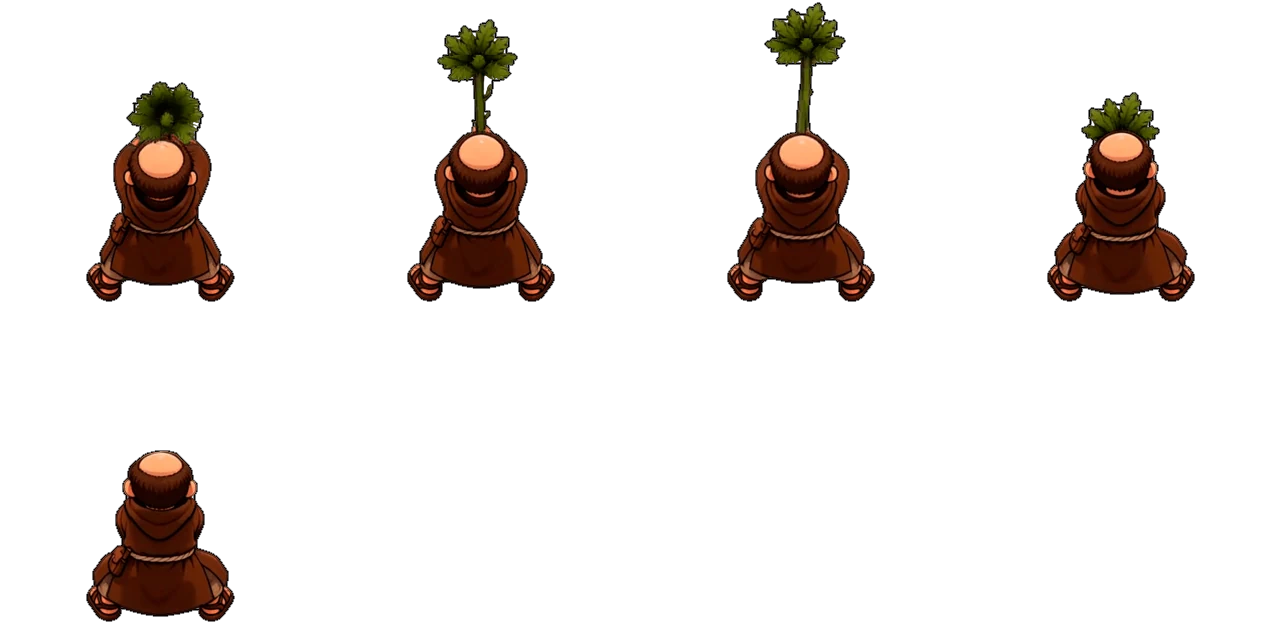
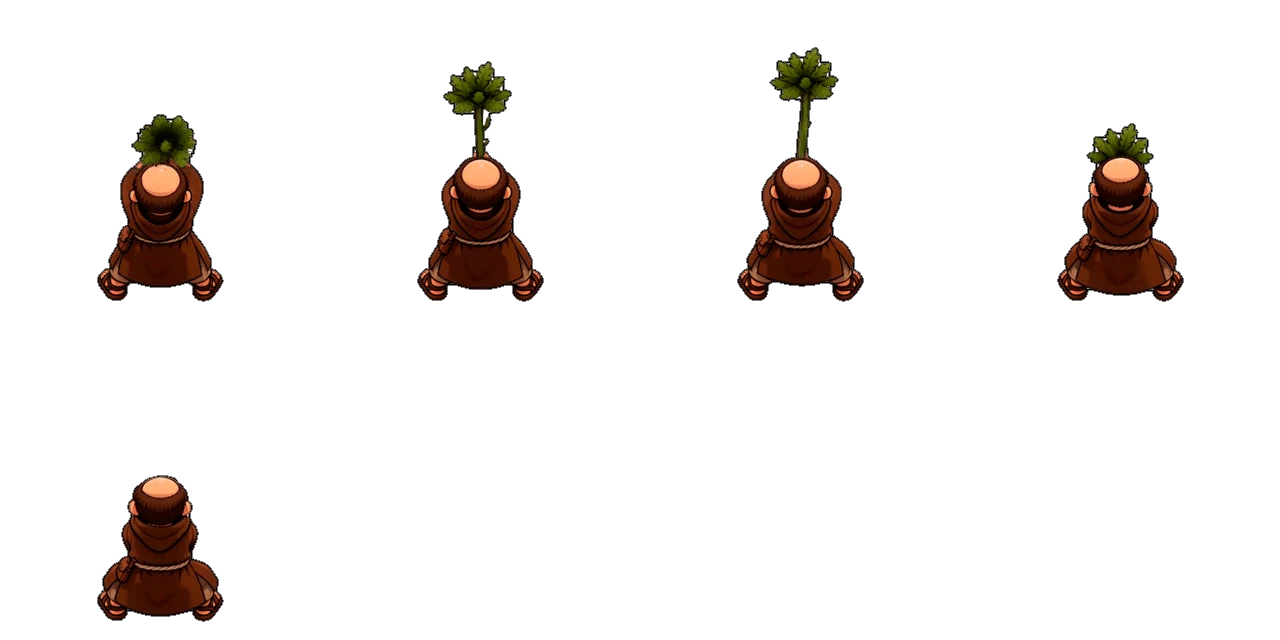
Atac amunt amb la branca: personatge un 15% més petit (v5 el dibuixa més ample); puja la versió
Claude-Session: https://claude.ai/code/session_01Lxfm6YSSDLi4GYSBQ6SeDm

diff --git a/index.html b/index.html
@@ -61,62 +61,62 @@
     <div id="joc"></div>
 
     <!-- L'ordre importa: cada fitxer fa servir coses dels anteriors -->
-    <script src="js/sfx.js?v=2611174400"></script>
-    <script src="js/partida.js?v=2611174400"></script>
-    <script src="js/progres.js?v=2611174400"></script>
-    <script src="js/dibuixos.js?v=2611174400"></script>
-    <script src="js/icones.js?v=2611174400"></script>
-    <script src="js/dibuixos_biblio.js?v=2611174400"></script>
-    <script src="js/dibuixos_cela.js?v=2611174400"></script>
-    <script src="js/dibuixos_taller.js?v=2611174400"></script>
+    <script src="js/sfx.js?v=2611174500"></script>
+    <script src="js/partida.js?v=2611174500"></script>
+    <script src="js/progres.js?v=2611174500"></script>
+    <script src="js/dibuixos.js?v=2611174500"></script>
+    <script src="js/icones.js?v=2611174500"></script>
+    <script src="js/dibuixos_biblio.js?v=2611174500"></script>
+    <script src="js/dibuixos_cela.js?v=2611174500"></script>
+    <script src="js/dibuixos_taller.js?v=2611174500"></script>
     <script src="js/dibuixos_cripta.js?v=2611161400"></script>
-    <script src="js/dibuixos_georgi.js?v=2611174400"></script>
-    <script src="js/dibuixos_oratori.js?v=2611174400"></script>
-    <script src="js/dibuixos_ermita.js?v=2611174400"></script>
-    <script src="js/dibuixos_casa.js?v=2611174400"></script>
-    <script src="js/dibuixos_proleg.js?v=2611174400"></script>
-    <script src="js/dibuixos_pingpong.js?v=2611174400"></script>
-    <script src="js/assets.js?v=2611174400"></script>
-    <script src="js/dialegs.js?v=2611174400"></script>
-    <script src="js/ui.js?v=2611174400"></script>
-    <script src="js/zona_base.js?v=2611174400"></script>
-    <script src="js/atac_arma.js?v=2611174400"></script>
-    <script src="js/combat.js?v=2611174400"></script>
-    <script src="js/musica.js?v=2611174400"></script>
-    <script src="js/zones/placa.js?v=2611174400"></script>
-    <script src="js/zones/esglesia.js?v=2611174400"></script>
-    <script src="js/zones/monestir.js?v=2611174400"></script>
-    <script src="js/zones/bassadoria.js?v=2611174400"></script>
-    <script src="js/zones/casa_gran.js?v=2611174400"></script>
-    <script src="js/zones/nord.js?v=2611174400"></script>
-    <script src="js/zones/cirosa.js?v=2611174400"></script>
-    <script src="js/estels.js?v=2611174400"></script>
-    <script src="js/pingpong.js?v=2611174400"></script>
-    <script src="js/credits.js?v=2611174400"></script>
-    <script src="js/zones/oest.js?v=2611174400"></script>
-    <script src="js/zones/bosc_pi.js?v=2611174400"></script>
-    <script src="js/zones/cementiri.js?v=2611174400"></script>
-    <script src="js/zones/casa.js?v=2611174400"></script>
-    <script src="js/zones/cabana.js?v=2611174400"></script>
-    <script src="js/zones/cami.js?v=2611174400"></script>
-    <script src="js/zones/ermita.js?v=2611174400"></script>
-    <script src="js/zones/era.js?v=2611174400"></script>
-    <script src="js/zones/jardi.js?v=2611174400"></script>
-    <script src="js/zones/torre.js?v=2611174400"></script>
-    <script src="js/zones/hostatgeria.js?v=2611174400"></script>
-    <script src="js/zones/taverna.js?v=2611174400"></script>
-    <script src="js/zones/gabia.js?v=2611174400"></script>
-    <script src="js/zones/gabia_decor.js?v=2611174400"></script>
-    <script src="js/zones/biblioteca.js?v=2611174400"></script>
-    <script src="js/zones/rebedor.js?v=2611174400"></script>
-    <script src="js/zones/cela.js?v=2611174400"></script>
-    <script src="js/diari.js?v=2611174400"></script>
-    <script src="js/mapa.js?v=2611174400"></script>
-    <script src="js/proves_llistes.js?v=2611174400"></script>
-    <script src="js/proves_escenaris.js?v=2611174400"></script>
-    <script src="js/proves.js?v=2611174400"></script>
-    <script src="js/intro.js?v=2611174400"></script>
-    <script src="js/main.js?v=2611174400"></script>
+    <script src="js/dibuixos_georgi.js?v=2611174500"></script>
+    <script src="js/dibuixos_oratori.js?v=2611174500"></script>
+    <script src="js/dibuixos_ermita.js?v=2611174500"></script>
+    <script src="js/dibuixos_casa.js?v=2611174500"></script>
+    <script src="js/dibuixos_proleg.js?v=2611174500"></script>
+    <script src="js/dibuixos_pingpong.js?v=2611174500"></script>
+    <script src="js/assets.js?v=2611174500"></script>
+    <script src="js/dialegs.js?v=2611174500"></script>
+    <script src="js/ui.js?v=2611174500"></script>
+    <script src="js/zona_base.js?v=2611174500"></script>
+    <script src="js/atac_arma.js?v=2611174500"></script>
+    <script src="js/combat.js?v=2611174500"></script>
+    <script src="js/musica.js?v=2611174500"></script>
+    <script src="js/zones/placa.js?v=2611174500"></script>
+    <script src="js/zones/esglesia.js?v=2611174500"></script>
+    <script src="js/zones/monestir.js?v=2611174500"></script>
+    <script src="js/zones/bassadoria.js?v=2611174500"></script>
+    <script src="js/zones/casa_gran.js?v=2611174500"></script>
+    <script src="js/zones/nord.js?v=2611174500"></script>
+    <script src="js/zones/cirosa.js?v=2611174500"></script>
+    <script src="js/estels.js?v=2611174500"></script>
+    <script src="js/pingpong.js?v=2611174500"></script>
+    <script src="js/credits.js?v=2611174500"></script>
+    <script src="js/zones/oest.js?v=2611174500"></script>
+    <script src="js/zones/bosc_pi.js?v=2611174500"></script>
+    <script src="js/zones/cementiri.js?v=2611174500"></script>
+    <script src="js/zones/casa.js?v=2611174500"></script>
+    <script src="js/zones/cabana.js?v=2611174500"></script>
+    <script src="js/zones/cami.js?v=2611174500"></script>
+    <script src="js/zones/ermita.js?v=2611174500"></script>
+    <script src="js/zones/era.js?v=2611174500"></script>
+    <script src="js/zones/jardi.js?v=2611174500"></script>
+    <script src="js/zones/torre.js?v=2611174500"></script>
+    <script src="js/zones/hostatgeria.js?v=2611174500"></script>
+    <script src="js/zones/taverna.js?v=2611174500"></script>
+    <script src="js/zones/gabia.js?v=2611174500"></script>
+    <script src="js/zones/gabia_decor.js?v=2611174500"></script>
+    <script src="js/zones/biblioteca.js?v=2611174500"></script>
+    <script src="js/zones/rebedor.js?v=2611174500"></script>
+    <script src="js/zones/cela.js?v=2611174500"></script>
+    <script src="js/diari.js?v=2611174500"></script>
+    <script src="js/mapa.js?v=2611174500"></script>
+    <script src="js/proves_llistes.js?v=2611174500"></script>
+    <script src="js/proves_escenaris.js?v=2611174500"></script>
+    <script src="js/proves.js?v=2611174500"></script>
+    <script src="js/intro.js?v=2611174500"></script>
+    <script src="js/main.js?v=2611174500"></script>
     <script>
         // Service worker: només amb http(s) (no obrint el fitxer directament) i sense fer fallar el joc si no pot ser
         window.addEventListener('load', () => { try { if (typeof game !== 'undefined') sessionStorage.removeItem('runna_reintent'); } catch (e) { } });

diff --git a/js/assets.js b/js/assets.js
@@ -354,7 +354,7 @@ const Grafics = {
             const mida = { frameWidth: SPRITE_INEU.ample, frameHeight: SPRITE_INEU.alt };
             scene.load.spritesheet('ineu_' + dir, rutaIneu(dir, false), mida);
             scene.load.spritesheet('ineu_cop_' + dir, `assets/ineu/cop/cop_${dir}.webp?v=1`, mida);          // l'Ineu rebent un cop (AutoSprite «Hit React», eines/fer_cop_ineu.py)
-            ATAC_ARMES.forEach(arma => scene.load.spritesheet(`ineu_atac_${arma}_${dir}`, `assets/ineu/atac/atac_${arma}_${dir}.webp?v=2611174400`, { frameWidth: ATAC_CEL_EXC[`${arma}_${dir}`] || ATAC_CEL, frameHeight: ATAC_CEL_EXC[`${arma}_${dir}`] || ATAC_CEL }));
+            ATAC_ARMES.forEach(arma => scene.load.spritesheet(`ineu_atac_${arma}_${dir}`, `assets/ineu/atac/atac_${arma}_${dir}.webp?v=2611174500`, { frameWidth: ATAC_CEL_EXC[`${arma}_${dir}`] || ATAC_CEL, frameHeight: ATAC_CEL_EXC[`${arma}_${dir}`] || ATAC_CEL }));
         });
         [...new Set(Object.values(IDLE_INEU))].forEach(dir => {
             const mida = { frameWidth: SPRITE_INEU.ample, frameHeight: SPRITE_INEU.alt };

diff --git a/eines/fer_atac_arma.py b/eines/fer_atac_arma.py
@@ -32,6 +32,8 @@ FOT_EXC = {('tiller', 'up'): [0, 1, 2, 3, 4], ('espasa', 'up'): [0, 1, 2, 1, 0],
 # La branca 'up' fa servir ara el full de proves v5 (tiller_up_v5, 5 fotogrames dibuixats, tots triats a mà amb proves/atac_up/; l'alçada del cos es mesura amb el 5).
 # Fotogrames amb què es mesura l'alçada del cos (per defecte 12-15, on l'arma és a les mans). A basto_v1 'up' la gafa del bastó sobresurt per sobre del cap en aquests: es mesura amb el 3 i el 4.
 ESCALA_FOTS = {('basto', 'up'): (3, 4), ('tiller', 'up'): (4,)}
+# Reducció extra de la mida (per a fulls on el personatge surt dibuixat més ample que als altres; tiller_up_v5, a 0,85, igualava l'amplada del cos amb la dels altres atacs)
+REDUCCIO = {('tiller', 'up'): 0.85}
 CENTRAL = set()        # direccions on l'escala del cos es mesura només amb les columnes del cap (quan l'arma sobresurt per sobre del cap)
 # Cel·la més gran per a fulls concrets (js/assets.js, ATAC_CEL_EXC, ha de dir el mateix): el bastó 'up' es tallava a la vora i s'ha de poder retocar a mà (l'Ineu va al mig, amb molt d'espai)
 CEL_EXC = {('basto', 'up'): 480}
@@ -102,7 +104,7 @@ def main():
             if filtre and f'{arma}:{d}' not in filtre: continue
             fots = FOT_EXC.get((arma, d), fots0)
             im = Image.open(ORIGEN / ORIGEN_EXC.get((arma, d), arma) / f'{d}.png').convert('RGBA')
-            pf = peus(im, range(16)); K = escala(im, arma, (arma, d) in CENTRAL, ESCALA_FOTS.get((arma, d), (12, 13, 14, 15)))
+            pf = peus(im, range(16)); K = escala(im, arma, (arma, d) in CENTRAL, ESCALA_FOTS.get((arma, d), (12, 13, 14, 15))) * REDUCCIO.get((arma, d), 1.0)
             n = len(fots); cols = 4; files = (n + cols - 1) // cols
             CEL = CEL_EXC.get((arma, d), CEL0)
             out = Image.new('RGBA', (cols * CEL, files * CEL), (0, 0, 0, 0))
